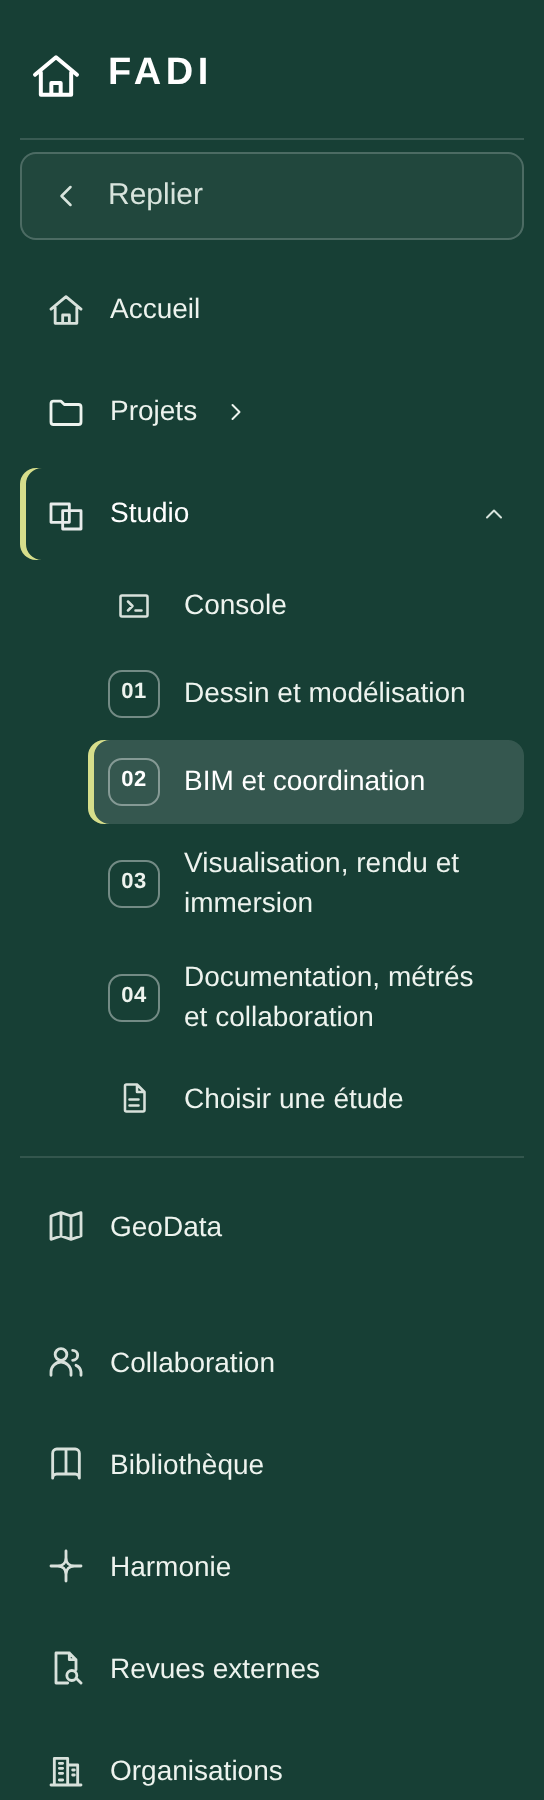
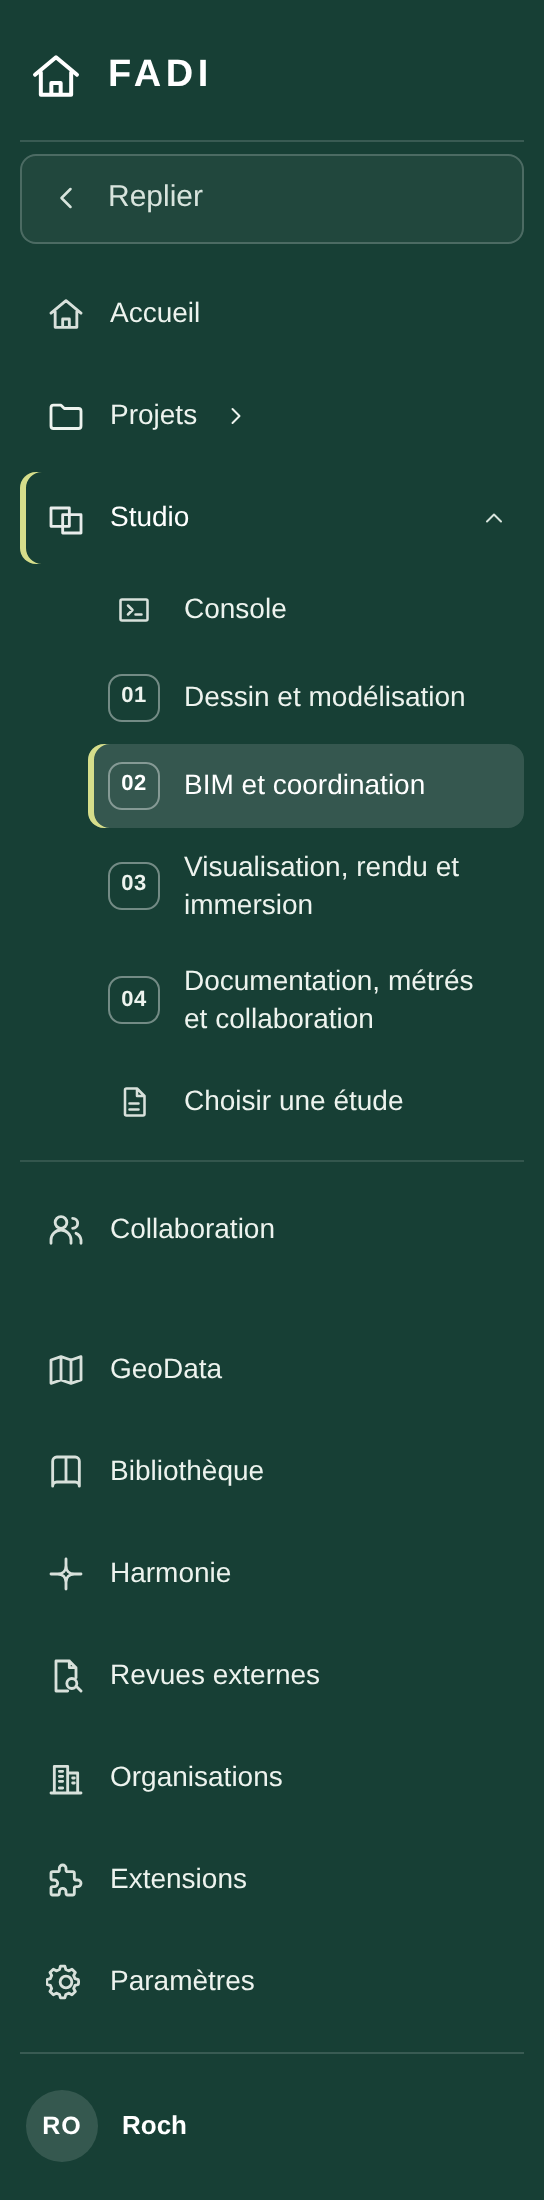
Barre latérale : Collaboration sous Studio, GeoData en tête du groupe secondaire
Demande du maître d'ouvrage du 27-11-2026. Barre du bas et feuille « Plus »
inchangées. Recettes parcours-scenario et I.5-02, registre et rapports d'état
alignés.

Claude-Session: https://claude.ai/code/session_01N42fPwVDSXsJbpxNEPnW8J

diff --git a/apps/web/src/routes/AppShell.tsx b/apps/web/src/routes/AppShell.tsx
@@ -134,11 +134,11 @@ export function AppShell() {
             <Icon name="folder" /><span className="sidebar-label">Projets</span><Icon name="chevron-right" size={14} className="sidebar-label" />
           </button>
           <MenuStudio surNavigation={() => { if (window.matchMedia("(max-width: 700px)").matches) setExpanded(false); }} />
-          {/* Lot Design L6b : rail dans l'ordre de la barre du bas (Accueil, Projets, Studio, GeoData) puis de la feuille « Plus ». */}
-          <NavLink to="/geodata" title="GeoData" aria-label="GeoData" className={({ isActive }) => isActive ? "active" : undefined} data-nav-geodata><Icon name="map" /><span className="sidebar-label" translate="no">GeoData</span></NavLink>
+          {/* Demande du maître d'ouvrage (27-11-2026) : Collaboration suit Studio ; GeoData ouvre le groupe secondaire. */}
+          <Link data-nav-collaboration to={collaborationLink} className={collaborationActive ? "active" : undefined} aria-current={collaborationActive ? "page" : undefined} title="Collaboration" aria-label="Collaboration"><Icon name="people" /><span className="sidebar-label">Collaboration</span></Link>
         </nav>
         <div className="app-nav-secondary">
-          <Link data-nav-collaboration to={collaborationLink} className={collaborationActive ? "active" : undefined} aria-current={collaborationActive ? "page" : undefined} title="Collaboration" aria-label="Collaboration"><Icon name="people" /><span className="sidebar-label">Collaboration</span></Link>
+          <NavLink to="/geodata" title="GeoData" aria-label="GeoData" className={({ isActive }) => isActive ? "active" : undefined} data-nav-geodata><Icon name="map" /><span className="sidebar-label" translate="no">GeoData</span></NavLink>
           <NavLink to="/bibliotheque/batiments" title="Bibliothèque" aria-label="Bibliothèque" className={({ isActive }) => isActive ? "active" : undefined}><Icon name="book" /><span className="sidebar-label">Bibliothèque</span></NavLink>
           <NavLink to="/harmonie" title="Harmonie" aria-label="Harmonie" className={({ isActive }) => isActive ? "active" : undefined} data-nav-harmonie><Icon name="sparkle" /><span className="sidebar-label">Harmonie</span></NavLink>
           {/* Espace d'organisation (concept partie 5) : équipe interne, groupes, gabarits ; n'ouvre aucun projet. */}

diff --git a/docs/workstreams/studio/HANDOFF.md b/docs/workstreams/studio/HANDOFF.md
@@ -447,3 +447,4 @@ Seuls les processus/ressources créés et identifiés par le profil peuvent êtr
 
 - 2026-11-26 (lot Design L6b) : libellé I.5-02 du registre (`task-register.json`) aligné sur la recette `studio-preuves-d1.mjs` ; le rail place GeoData entre Studio et Collaboration. Aucun autre changement Studio.
 - 2026-11-26 (menu Studio, capture de référence du maître d'ouvrage) : sous-menu de la barre latérale réordonné — Console (entrée du sous-menu, masquée avec lui), 01 à 04, « Choisir une étude » (icône document), trait de fin ; ligne « Accueil Studio » retirée (l'accueil reste l'entrée « Studio », `/studio`) ; chevron ˅/˄. Recettes `studio-navigation.mjs` et `studio-preuves-d1.mjs` (I.5-02) et libellés du registre alignés. Captures : `captures/menu-studio/`.
+- 2026-11-27 (demande du maître d'ouvrage) : rail du bureau, Collaboration remonte sous Studio dans la navigation principale et GeoData ouvre le groupe secondaire ; barre du bas et feuille « Plus » inchangées. Recettes parcours-scenario (R11) et studio-preuves-d1 (I.5-02) alignées.

diff --git a/docs/workstreams/studio/STATUS.md b/docs/workstreams/studio/STATUS.md
@@ -440,3 +440,4 @@ Vérifier la CI au SHA exact, faire constater le parcours au propriétaire et re
 
 - 2026-11-26 (lot Design L6b) : libellé I.5-02 du registre (`task-register.json`) aligné sur la recette `studio-preuves-d1.mjs` ; le rail place GeoData entre Studio et Collaboration. Aucun autre changement Studio.
 - 2026-11-26 (menu Studio, capture de référence du maître d'ouvrage) : sous-menu de la barre latérale réordonné — Console (entrée du sous-menu, masquée avec lui), 01 à 04, « Choisir une étude » (icône document), trait de fin ; ligne « Accueil Studio » retirée (l'accueil reste l'entrée « Studio », `/studio`) ; chevron ˅/˄. Recettes `studio-navigation.mjs` et `studio-preuves-d1.mjs` (I.5-02) et libellés du registre alignés. Captures : `captures/menu-studio/`.
+- 2026-11-27 (demande du maître d'ouvrage) : rail du bureau, Collaboration remonte sous Studio dans la navigation principale et GeoData ouvre le groupe secondaire ; barre du bas et feuille « Plus » inchangées. Recettes parcours-scenario (R11) et studio-preuves-d1 (I.5-02) alignées.

diff --git a/docs/workstreams/design/STATUS.md b/docs/workstreams/design/STATUS.md
@@ -68,3 +68,4 @@ Mis à jour : 2026-11-26 (UTC).
 - 2026-11-26 : `studio-preuves-d1.mjs` (I.5-02) suit le nouvel ordre du rail : après le menu Studio replié, Tab passe par Console, GeoData puis Collaboration.
 - 2026-11-26 : `studio-navigation.mjs` (NAV-001) lit Collaboration dans `.app-nav-secondary` (L6b l'a sortie de la navigation principale).
 - 2026-11-26 : `use-immersive` réessaie la mesure tant que l'Atelier n'est pas monté et observe l'éditeur : avec l'en-tête L9 sur une rangée, aucun bloc observé ne changeait de taille, `--atelier-menu-top` restait vide et la liste des niveaux de « Plan » couvrait Planche / 3D au téléphone (recette planche-boutons, shard p2).
+- 2026-11-27 (demande du maître d'ouvrage) : rail du bureau, Collaboration remonte sous Studio dans la navigation principale et GeoData ouvre le groupe secondaire ; barre du bas et feuille « Plus » inchangées. Recettes parcours-scenario (R11) et studio-preuves-d1 (I.5-02) alignées.

diff --git a/docs/ai-team/reports/etat-studio/RATTACHEMENT-SOUS-LOTS.md b/docs/ai-team/reports/etat-studio/RATTACHEMENT-SOUS-LOTS.md
@@ -1,7 +1,7 @@
 # Rattachement des fiches EX / INV / IF / AC aux sous-lots et aux composants (X.3-01)
 
 > Document **généré** par `node scripts/registre/etat-studio.mjs --ecrire` (module `scripts/registre/rattachements-studio.mjs`) ; la CI
[2 lines of base64/hex data omitted]
 
 Règle contrôlée (`controlerRattachement`, `node --test scripts/registre/controles-suivi.test.mjs`) : les identifiants sont
 exactement ceux des 141 fiches REF-02 (M004) et des obligations TR-* du registre — aucun renuméroté ; chaque fiche a au

diff --git a/docs/ai-team/reports/etat-studio/FICHES-TR.md b/docs/ai-team/reports/etat-studio/FICHES-TR.md
@@ -1,7 +1,7 @@
 # Fiches de traçabilité TR-* (annexe C) — preuve et contre-preuve individuelles
 
 > Document **généré** par `node scripts/registre/etat-studio.mjs --ecrire` depuis le registre et les fiches M004 ; la CI le
[2 lines of base64/hex data omitted]
 
 Règle C (Checklist, annexe C) appliquée à chaque fiche : libellé exact, source, responsable, contrat, composant, tests
 positifs et négatifs, preuves, décisions, état et verdict ; **une preuve absente reste « à produire »**. Preuve = contrôle

diff --git a/docs/ai-team/reports/etat-studio/CONTROLES-EXECUTES.md b/docs/ai-team/reports/etat-studio/CONTROLES-EXECUTES.md
@@ -2,7 +2,7 @@
 
 > Document **généré** par `node scripts/registre/etat-studio.mjs --ecrire` depuis le registre ; la CI (workflow
 > « Continuité de développement ») le recalcule à chaque commit et échoue s’il diffère : il est donc tenu au HEAD testé.
[2 lines of base64/hex data omitted]
 
 **Une CI verte n’est pas une couverture exhaustive** (X.4-03) : elle prouve seulement que les contrôles listés en partie 1
 ont réussi aux exécutions citées. Les scénarios de la partie 2 ne sont pas couverts, quel que soit l’état de la CI.

diff --git a/docs/ai-team/reports/etat-studio/AGREGATS-RECETTE.md b/docs/ai-team/reports/etat-studio/AGREGATS-RECETTE.md
@@ -1,7 +1,7 @@
 # Rapprochements d'agrégation des recettes Studio
 
 > Document **généré** par `node scripts/registre/etat-studio.mjs --ecrire` (module `scripts/registre/rattachements-studio.mjs`) ;
[2 lines of base64/hex data omitted]
 
 Pour chaque agrégat (A.2-09, REC-A-02, REC-B-01, REC-C-02, REC-E-01, REC-E-02, F.3-04, J6), chaque TEST-xxx / AC-xxx cité
 (relu dans la description du registre ; facettes déclarées pour REC-B-01 et J6, qui n'en citent pas) est rapproché de

diff --git a/docs/workstreams/design/HANDOFF.md b/docs/workstreams/design/HANDOFF.md
@@ -57,3 +57,4 @@ Mis à jour : 2026-11-26 (UTC).
 ## Arrêt sûr
 
 - Aucune fusion ni déploiement sans le maître d'ouvrage ; jamais la production.
+- 2026-11-27 (demande du maître d'ouvrage) : rail du bureau, Collaboration remonte sous Studio dans la navigation principale et GeoData ouvre le groupe secondaire ; barre du bas et feuille « Plus » inchangées. Recettes parcours-scenario (R11) et studio-preuves-d1 (I.5-02) alignées.
